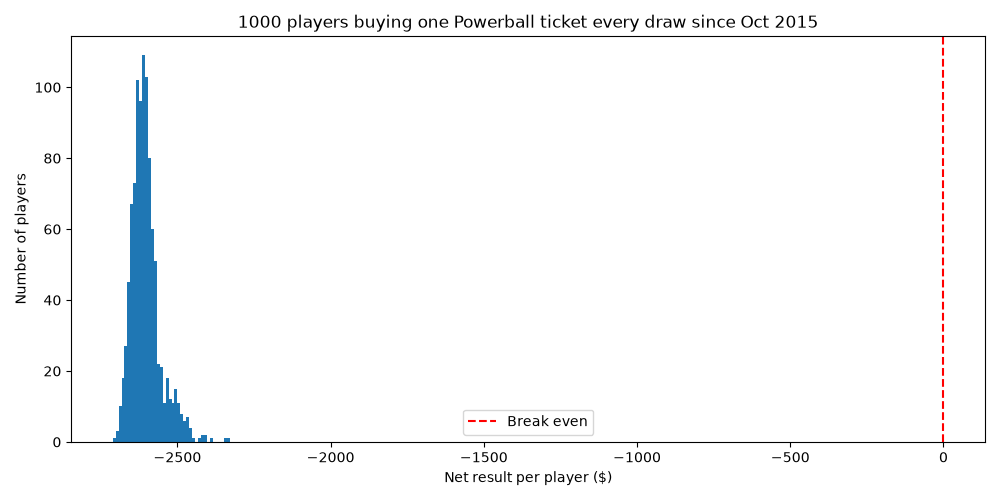
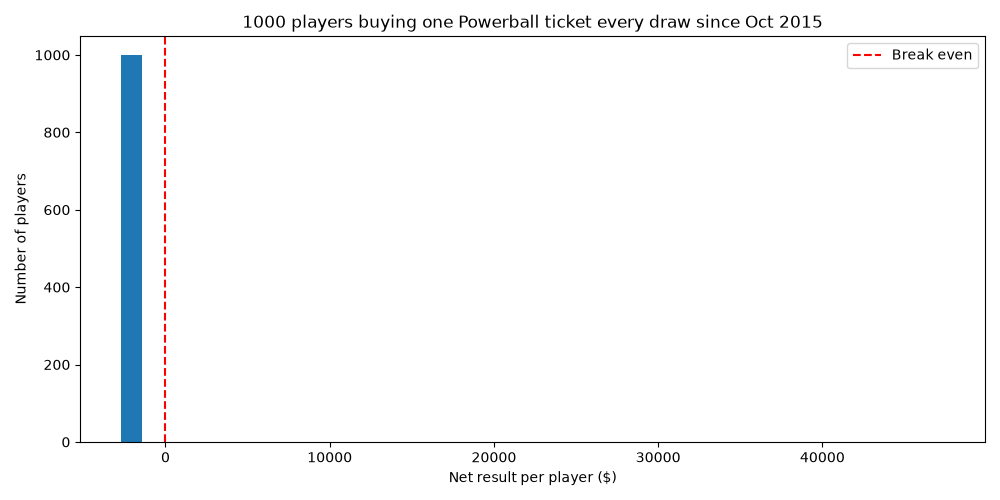
Add README and update simulation chart

diff --git a/README.md b/README.md
@@ -1,0 +1,49 @@
+Powerball Lotto Tracker
+
+An analysis of every Powerball drawing under the current game rules (October 2015 to present), asking two questions:
+
+Are some numbers really "hot"? Do certain numbers come up more often than random chance would predict?
+What happens if you play every draw? How much would a regular player actually win or lose?
+Data
+
+Winning numbers come from New York State's official open data portal (Lottery Powerball Winning Numbers: Beginning 2010). Powerball changed its format on October 7, 2015 (white balls went from 1–59 to 1–69, and the Powerball from 1–35 to 1–26), so only draws after that date are analyzed to keep the comparison fair.
+
+Methods
+
+Frequency analysis (analyze.py)
+
+Split each draw into its five white balls and the Powerball.
+Counted how many times each white ball (1–69) was drawn and compared it to the count expected if every number were equally likely.
+Ran a chi-square goodness-of-fit test to check whether the differences between numbers are larger than random chance would explain.
+
+Simulation (simulate.py)
+
+Simulated 1,000 players, each buying one random $2 ticket for every real draw in the dataset.
+Scored every ticket against the actual winning numbers using Powerball's fixed prize table.
+Compared total money spent to total winnings for each player.
+Results
+
+Draws analyzed: 1429 times (2015-10-07 to 2026-11-04)
+
+Frequency: The most drawn white ball was 21 (128 times) and the least drawn was 13 (79 times), compared to an expected 103.6 draws per number. The chi-square test gave a p-value of 0.212, meaning there is no evidence the draws are unfair. The "hot" and "cold" numbers are what random variation looks like.
+
+White ball frequency
+
+Simulation: Each player spent $2,858. On average, players won back $355.46, about $0.12 for every $1 spent. Only 2 of 1,000 players came out ahead, and no one hit the jackpot.
+
+Simulation results
+
+Conclusion
+
+Past results don't make any number more or less likely to be drawn, and playing regularly loses money for almost everyone. The lottery behaves exactly like a random game with a negative expected value.
+
+How to Run
+python3 -m venv venv
+source venv/bin/activate
+pip install pandas matplotlib scipy
+curl -L -o powerball.csv "https://data.ny.gov/api/views/d6yy-54nr/rows.csv?accessType=DOWNLOAD"
+python3 analyze.py
+python3 simulate.py
+Tools
+
+Python, pandas, NumPy, SciPy, matplotlib
